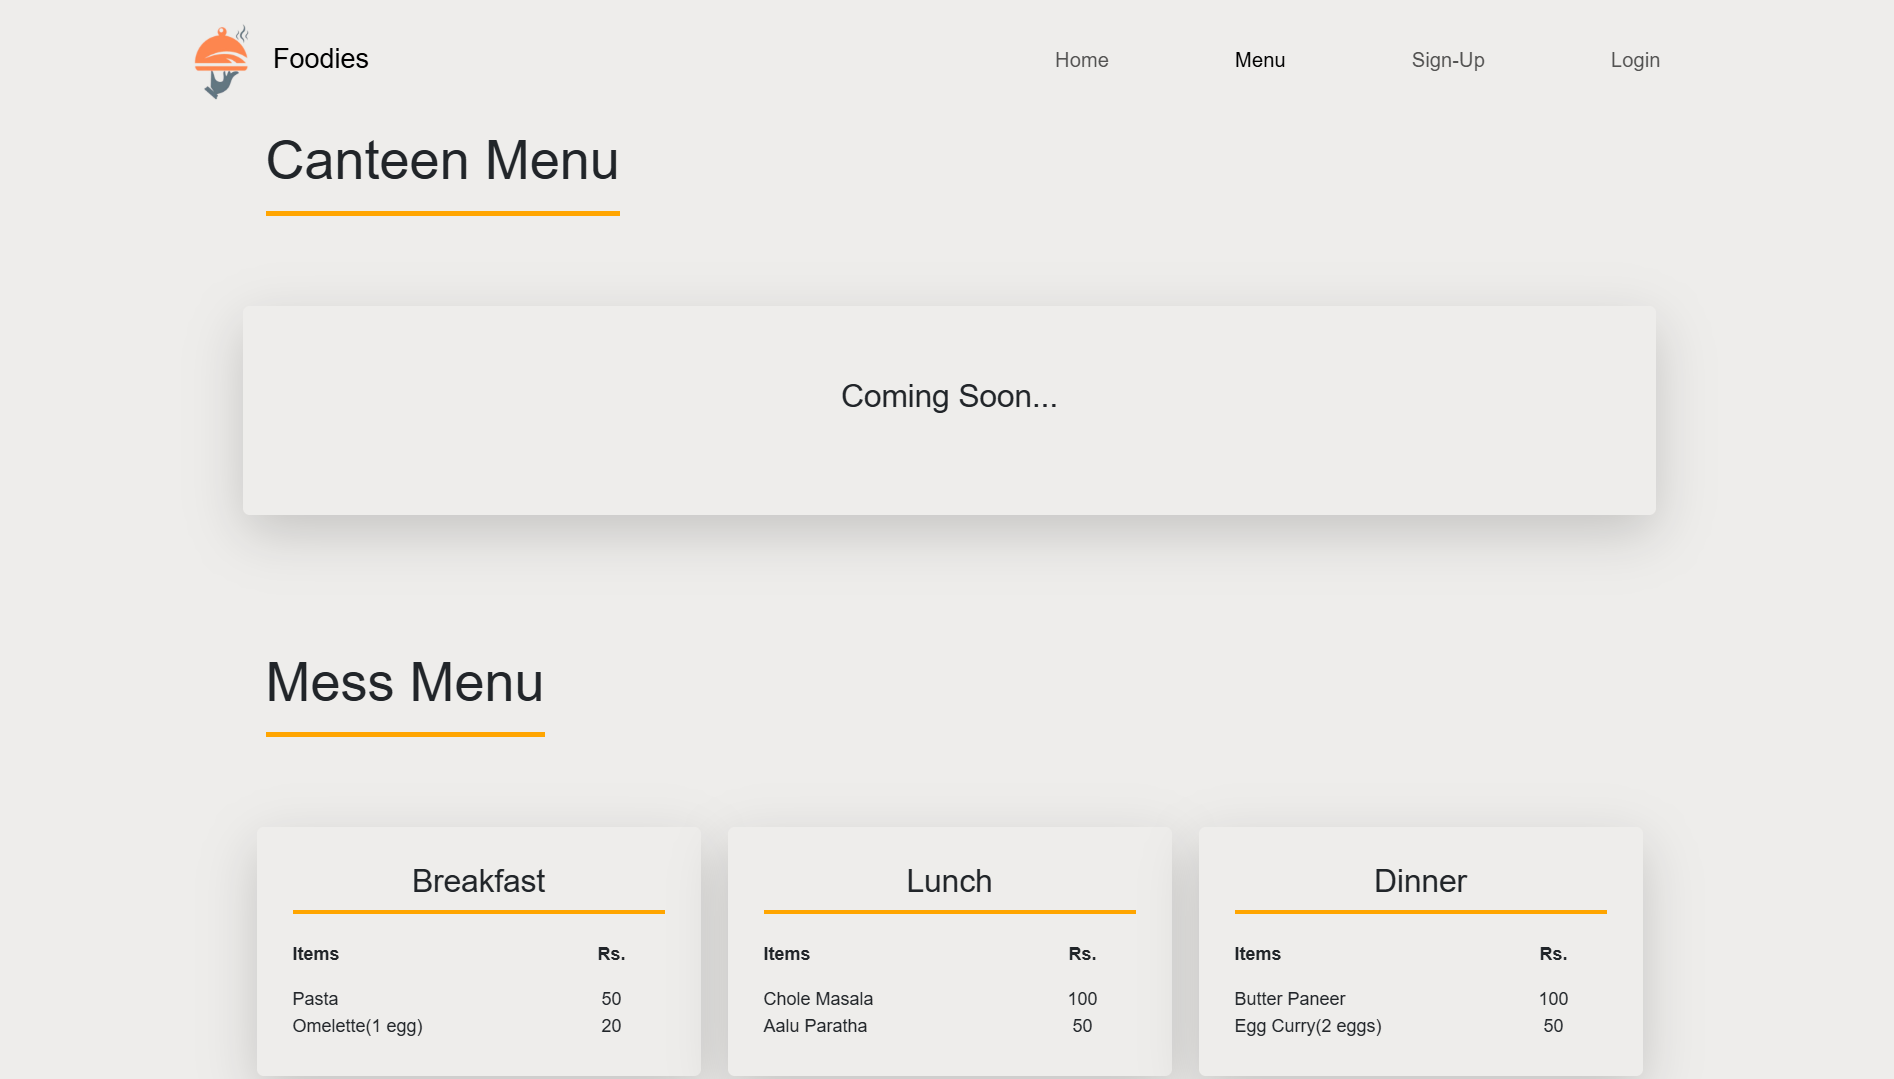
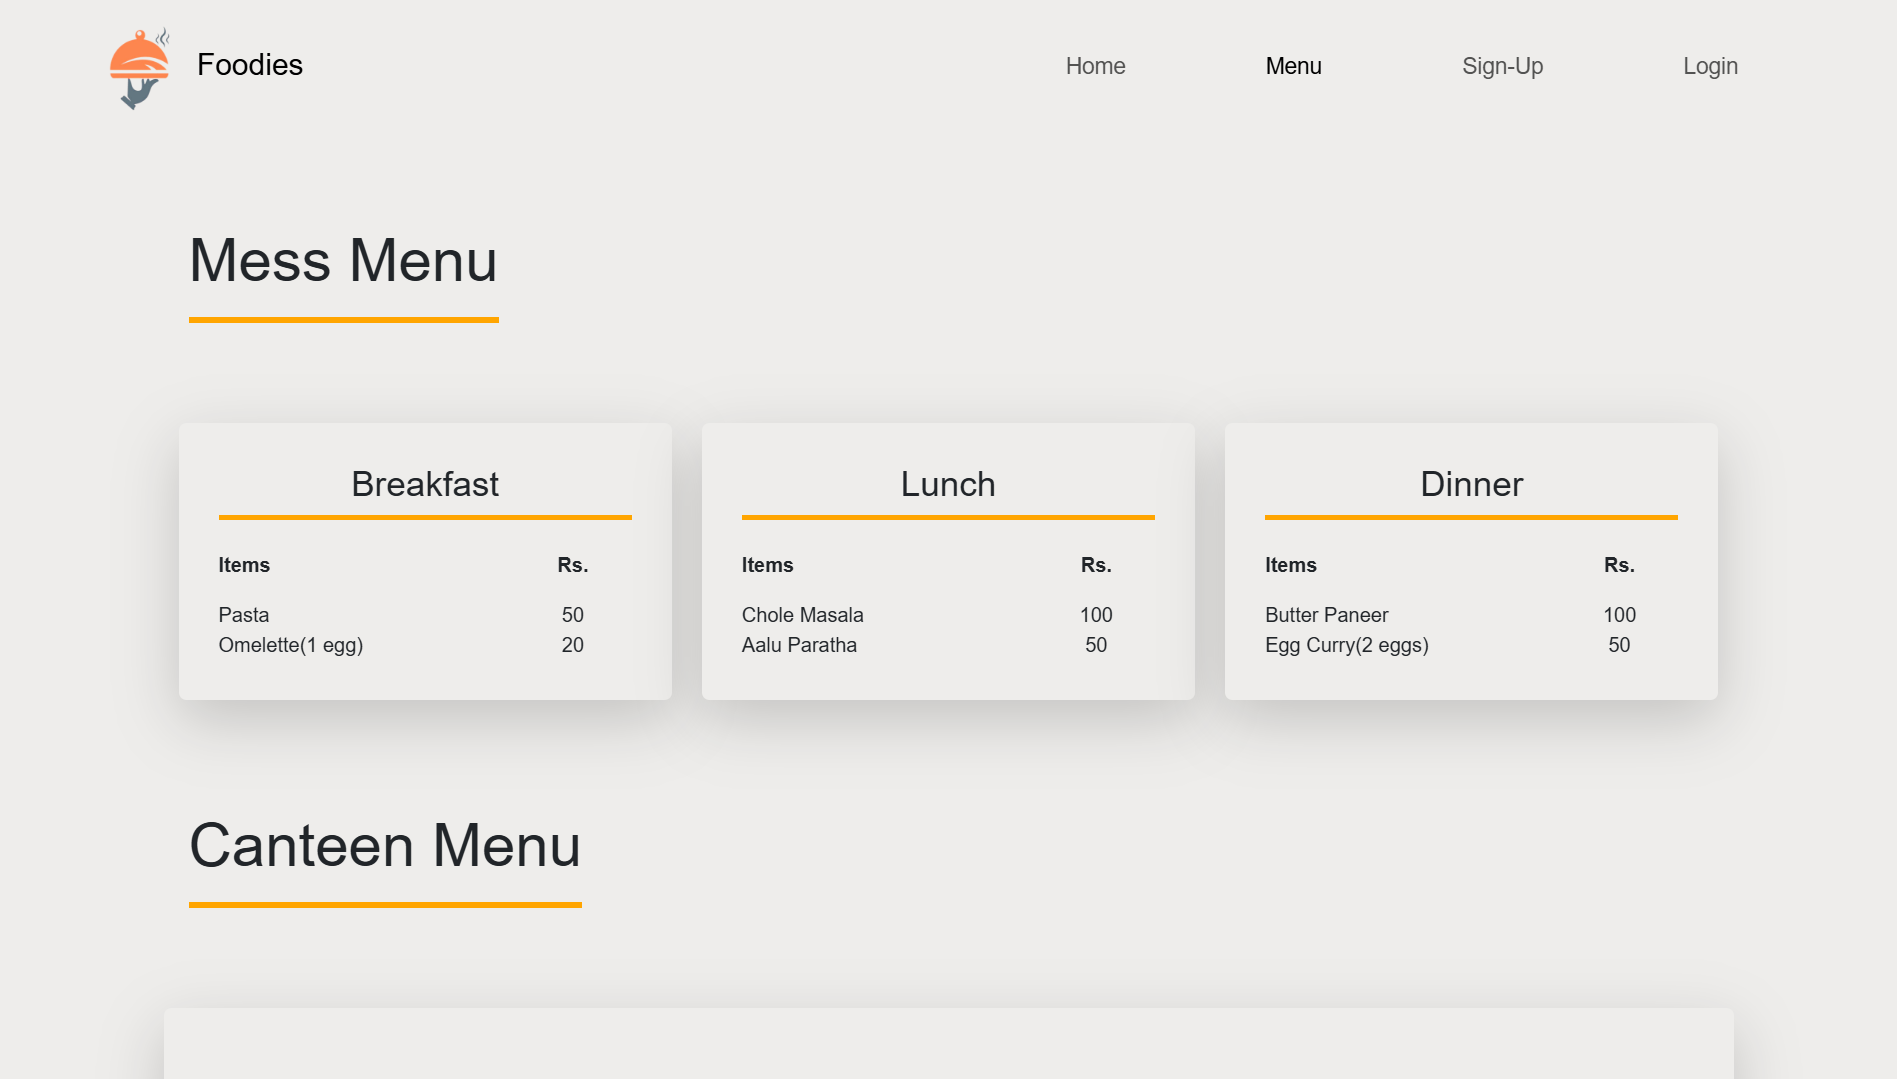
Updated .gitignore files

diff --git a/Client/pages/Menu.jsx b/Client/pages/Menu.jsx
@@ -3,6 +3,40 @@ import MenuFetch from '../components/MenuFetch'
 export default function Menu() {
   return (
     <>
+      {/* Mess Menu*/}
+      <section
+        className="section pt-5"
+        id="about-us"
+        style={{ backgroundColor: "#eeedeb" }}
+      >
+        <div className="container">
+          <div className="grid">
+            <div className="g-col-6 text-start">
+              <h2
+                style={{
+                  fontSize: "3rem",
+                  padding: "1.5rem 0rem 1rem 0rem",
+                  width: "fit-content",
+                  margin: "0rem 5rem 5rem 5rem",
+                  borderBottom: "5px solid orange",
+                }}
+              >
+                Mess Menu
+              </h2>
+            </div>
+            <div className="g-col-6">
+              <div className="container text-center text-white">
+                <div className="row" style={{margin: '0rem 3rem'}}>
+                  <MenuFetch />
+
+                </div>
+              </div>
+            </div>
+          </div>
+        </div>
+      </section>
+
+      {/* Canteen Menu*/}          
       <section
         className="section pt-3"
         id="about-us"
@@ -32,38 +66,6 @@ export default function Menu() {
                         <h3 className="card-title mb-4">Coming Soon...</h3>
                       </div>
                   </div>
-
-                </div>
-              </div>
-            </div>
-          </div>
-        </div>
-      </section>
-
-      <section
-        className="section pt-5"
-        id="about-us"
-        style={{ backgroundColor: "#eeedeb" }}
-      >
-        <div className="container">
-          <div className="grid">
-            <div className="g-col-6 text-start">
-              <h2
-                style={{
-                  fontSize: "3rem",
-                  padding: "1.5rem 0rem 1rem 0rem",
-                  width: "fit-content",
-                  margin: "0rem 5rem 5rem 5rem",
-                  borderBottom: "5px solid orange",
-                }}
-              >
-                Mess Menu
-              </h2>
-            </div>
-            <div className="g-col-6">
-              <div className="container text-center text-white">
-                <div className="row" style={{margin: '0rem 3rem'}}>
-                  <MenuFetch />
 
                 </div>
               </div>

diff --git a/Client/pages/Home.jsx b/Client/pages/Home.jsx
@@ -1,6 +1,4 @@
 import bg from "../Videos/Home_vid.mp4";
-import linkedin from "../Images/linkedin.png";
-import github from "../Images/github.png";
 
 export default function Home() {
   return (
